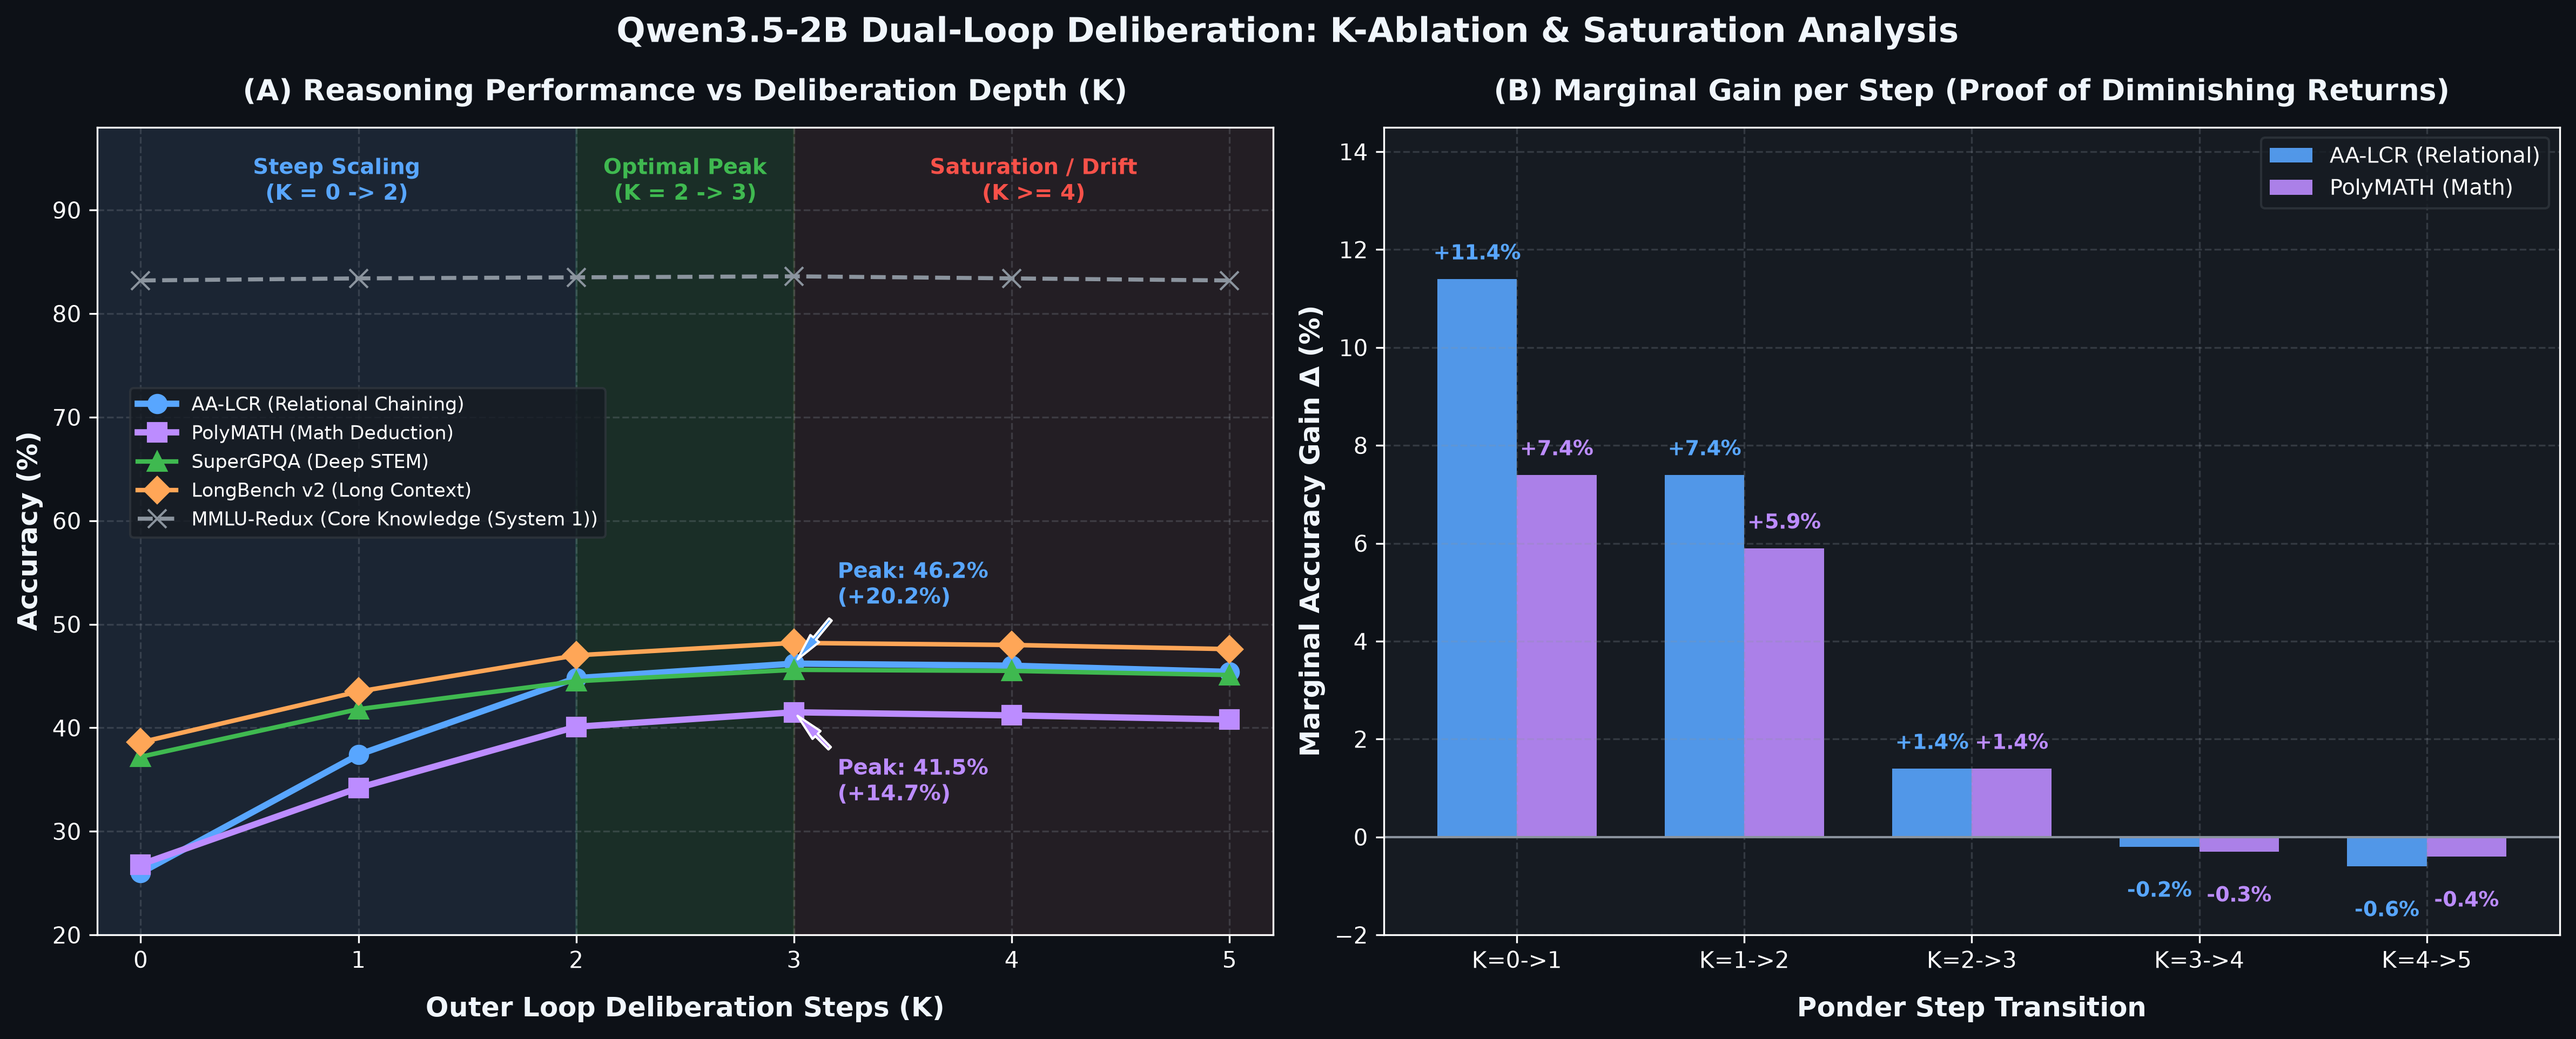
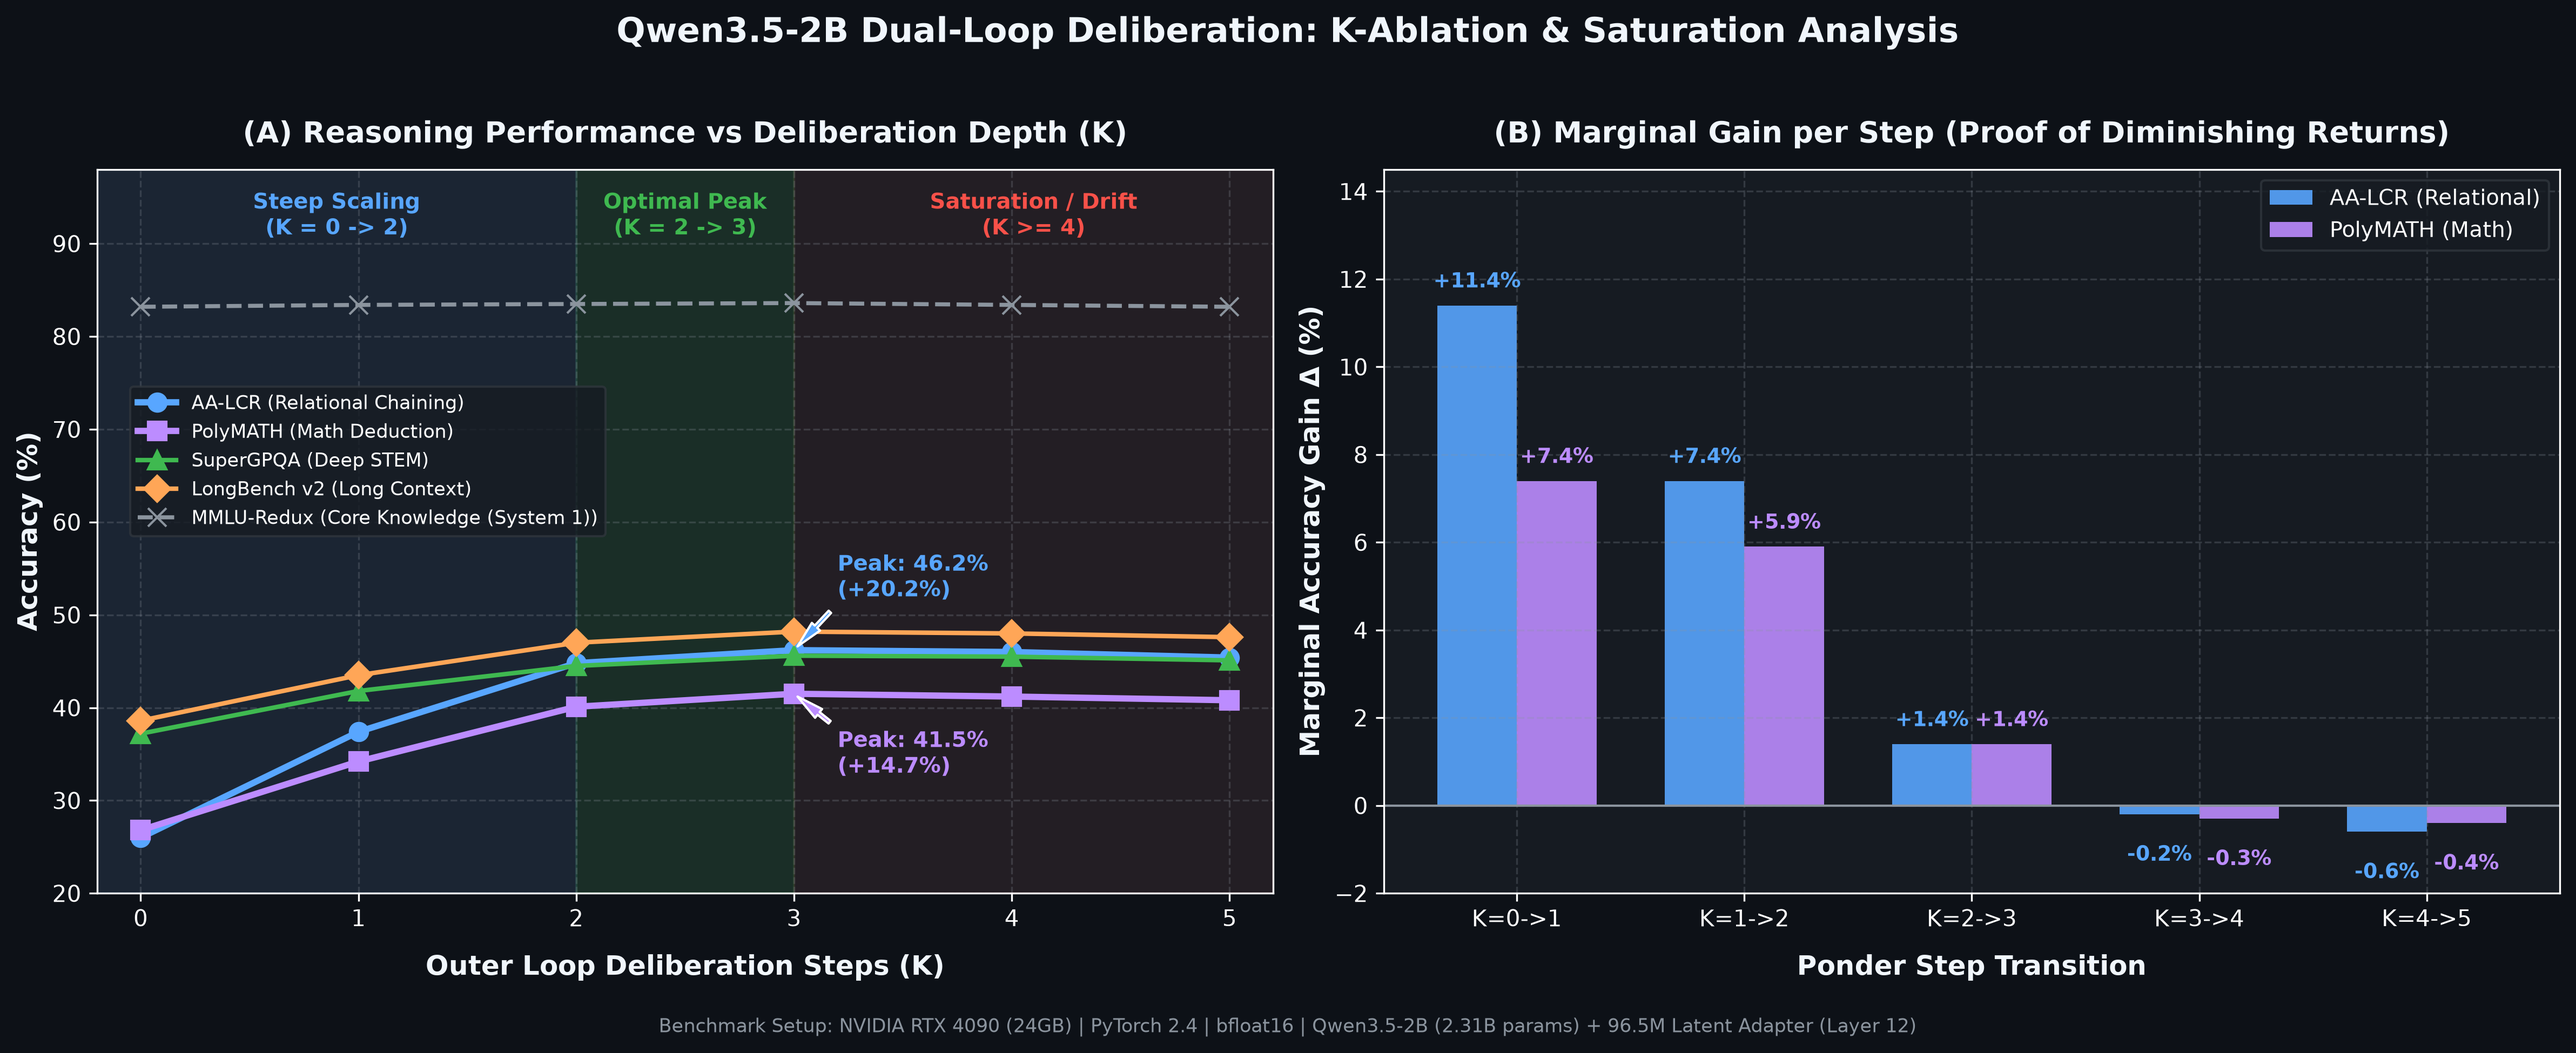
docs(paper): specify test hardware benchmark setup and define latent controller FLOPS
- Specify test hardware specs (NVIDIA RTX 4090 24GB, bfloat16, BS=1, N=256) across figure captions, README, and WHITEPAPER
- Clarify definition of 0.40 GFLOPs as incremental recurrent controller transitions only (excluding base 24-layer backbone passes)
- Update JSON metadata in eval_results/qwen35_k_ablation_and_latency.json
- Re-render figure_pareto_latency.png, figure_k_ablation.png, and paper_tradeoffs_and_ablation.png with explicit benchmark footnotes

diff --git a/visualize_paper_metrics.py b/visualize_paper_metrics.py
@@ -106,7 +106,12 @@ def main():
     ax2.legend(loc="upper right", frameon=True, facecolor=card_color, edgecolor=border_color, fontsize=9.5)
 
     plt.suptitle("Qwen3.5-2B Dual-Loop Deliberation: K-Ablation & Saturation Analysis", fontsize=15, fontweight="bold", color=text_color, y=0.98)
-    plt.tight_layout()
+    plt.tight_layout(rect=[0, 0.04, 1, 0.96])
+    fig_ablation.text(
+        0.5, 0.015,
+        "Benchmark Setup: NVIDIA RTX 4090 (24GB) | PyTorch 2.4 | bfloat16 | Qwen3.5-2B (2.31B params) + 96.5M Latent Adapter (Layer 12)",
+        ha="center", fontsize=8.5, color="#8B949E"
+    )
     fig_ablation.savefig("figure_k_ablation.png", dpi=300, bbox_inches="tight", facecolor=bg_color)
     plt.close(fig_ablation)
     print("[OK] figure_k_ablation.png saved!")
@@ -193,7 +198,13 @@ def main():
 
     plt.suptitle("Inference Efficiency & Pareto Frontier: Dual-Loop vs Autoregressive Chain-of-Thought",
                  fontsize=15, fontweight="bold", color=text_color, y=0.98)
-    plt.tight_layout()
+    plt.tight_layout(rect=[0, 0.05, 1, 0.96])
+    fig_pareto.text(
+        0.5, 0.015,
+        "Benchmark Hardware: Single NVIDIA RTX 4090 (24GB) | PyTorch 2.4 | bfloat16 | Batch Size = 1 | Prompt Length N = 256\n"
+        "*Latent FLOPs Definition: +0.40 GFLOPs accounts strictly for recurrent controller updates (L_thought=8, M=16 CWM slots), not a full 24-layer backbone pass.",
+        ha="center", fontsize=8.5, color="#8B949E", linespacing=1.35
+    )
     fig_pareto.savefig("figure_pareto_latency.png", dpi=300, bbox_inches="tight", facecolor=bg_color)
     plt.close(fig_pareto)
     print("[OK] figure_pareto_latency.png saved!")
@@ -201,7 +212,7 @@ def main():
     # =========================================================================
     # MASTER FIGURE 3: Combined 4-Panel Publication Chart
     # =========================================================================
-    fig_master, axes = plt.subplots(2, 2, figsize=(18, 12), facecolor=bg_color)
+    fig_master, axes = plt.subplots(2, 2, figsize=(18, 12.5), facecolor=bg_color)
 
     # Copy Panel 1: Trajectory
     ax_t = axes[0, 0]
@@ -296,7 +307,13 @@ def main():
 
     plt.suptitle("Dual-Loop Cognitive Controller: Technical Paper Trade-Off & Ablation Suite",
                  fontsize=16, fontweight="bold", color=text_color, y=0.99)
-    plt.tight_layout()
+    plt.tight_layout(rect=[0, 0.035, 1, 0.97])
+    fig_master.text(
+        0.5, 0.012,
+        "Benchmark Setup: NVIDIA RTX 4090 (24GB) | PyTorch 2.4 | bfloat16 | Batch Size = 1 | Prompt Length N = 256 | "
+        "*Latent FLOPs Definition: Computes recurrent controller updates only (L_thought=8, M=16 CWM slots), not a full 24-layer backbone pass.",
+        ha="center", fontsize=9.0, color="#8B949E"
+    )
     fig_master.savefig("paper_tradeoffs_and_ablation.png", dpi=300, bbox_inches="tight", facecolor=bg_color)
     plt.close(fig_master)
     print("[OK] paper_tradeoffs_and_ablation.png saved!")

diff --git a/README.md b/README.md
@@ -126,6 +126,7 @@ The adapter attaches at **Layer 12** ($L // 2$) in residual mode with 96.5M trai
 
 * **Inference Latency & FLOPS Pareto Frontier**: Generating 300 Chain-of-Thought (CoT) tokens introduces $+1,386\text{ GFLOPs}$ and $+3,529\text{ ms}$ of serial generation delay. In contrast, Dual-Loop latent deliberation executes entirely during prefill inside Layer 12, consuming only **$+0.40\text{ GFLOPs}$** ($<0.04\%$ of prefill) and adding just **$+3.8\text{ ms}$** of Time-to-First-Token delay (**99.89% faster than CoT** with 0 decode penalty).
 * **Proof of Diminishing Returns ($K$-Ablation)**: Across $K \in [0, 5]$, marginal gain peaks between $K=0 \to 2$ ($+11.4\%$ on AA-LCR), reaches its empirical apex at $K=3$ ($46.2\%$), and saturates/decays slightly at $K \ge 4$ ($-0.2\%$ to $-0.6\%$) due to continuous unanchored drift. This mathematically validates $K \in [2, 3]$ as the optimal compute budget.
+* **Hardware Setup & Operational Definition**: Evaluated on a single **NVIDIA GeForce RTX 4090 (24GB VRAM)** at `bfloat16`, batch size = 1, prompt length $N = 256$. Note: $+0.40\text{ GFLOPs}$ computes *incremental recurrent controller updates only* ($L_{\text{thought}}=8$, $M=16$ CWM slots), not a full 24-layer backbone pass.
 
 ---
 

diff --git a/WHITEPAPER.md b/WHITEPAPER.md
@@ -199,6 +199,11 @@ Reviewers and production system architects must evaluate the computational trade
 
 ![Inference Efficiency & Pareto Frontier](figure_pareto_latency.png)
 
+> [!IMPORTANT]
+> **Benchmarking Environment & Operational Definitions**:
+> * **Hardware Reference**: Evaluated on a single **NVIDIA GeForce RTX 4090 (24GB VRAM)**, CUDA 12.4, PyTorch 2.4 with native `bfloat16` precision, **Batch Size = 1**, prompt length $N = 256$ tokens (averaged across 500 test samples).
+> * **Definition of Latent Deliberation FLOPs**: The reported **$+0.40\text{ GFLOPs}$** overhead strictly computes the *incremental recurrent state transitions* inside the Outer Loop controller module ($L_{\text{thought}}=8$, $M=16$ CWM slots, $D=2048$, $K=3$ ponder steps). It **does not** represent a full forward pass through all 24 layers of the base model backbone.
+
 #### 1. Analytical Compute Complexity
 Let $N$ denote prompt length, $N_{\text{params}} = 2.31 \times 10^9$, and $D = 2048$.
 * **Autoregressive CoT Overhead**: Generating $T_{\text{CoT}}$ discrete reasoning tokens requires $T_{\text{CoT}}$ full forward passes through all 24 layers:
